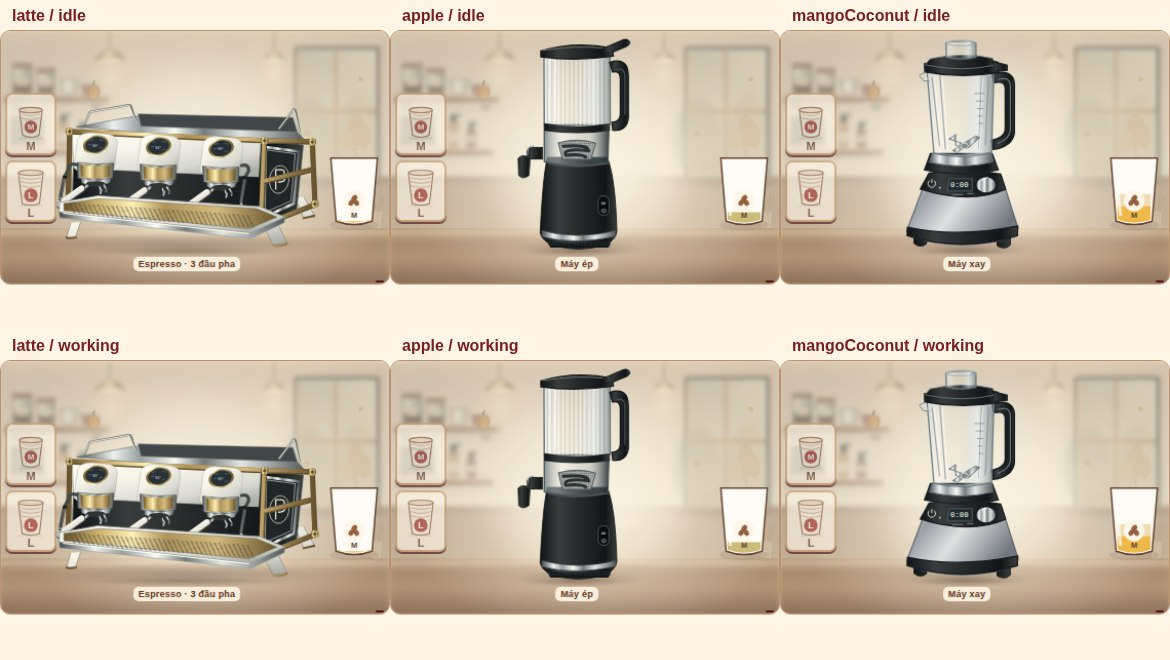
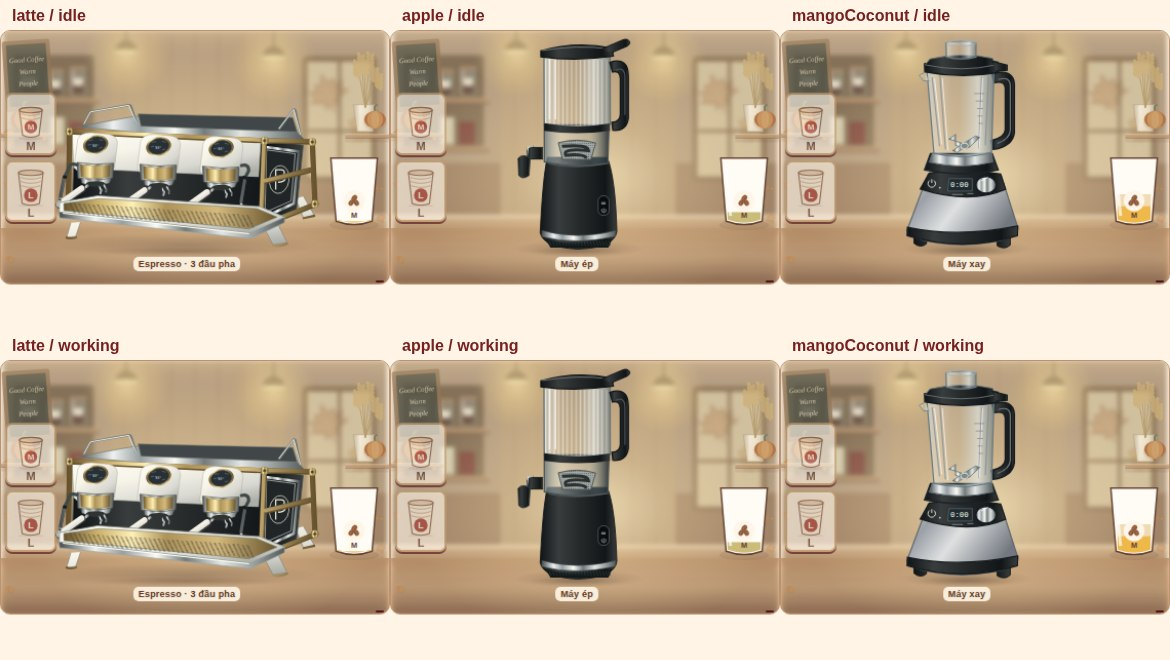
Attach inspected four-season screenshots and branch launch validation results

diff --git a/docs/season-theme-v2.md b/docs/season-theme-v2.md
@@ -11,6 +11,7 @@ Implemented on `feat/cozy-season-themes`; production is not changed.
 - Complete paid training during actual worked shifts: delivery needs three; other courses two. Existing save ownership is preserved. No automatic purchase or free employee.
 - At the fifth shift, baseline fixture (4★, 4.5 skill, menu at normal prices) forecasts ~284 orders, before seasonal/contest bonuses. With 350 team capacity, daily market variation gives roughly 252–315. Good service may increase demand; poor service, missing staff, no advertising or order limits reduce it.
 - Branch online launch removes the additional penalty for unrelated bakery/decor development. The branch still retains the 90% sales scaling, own demand and capacity.
+- Branch online UI now offers its own 6,500k station, instead of displaying the main-shop tablet requirements. Both advertising entry points debit the same branch wallet and set its own campaign flag once per day.
 - Main-shop economics and branch opening costs/requirements are unchanged. No save schema bump; the existing upgrade map stores the new owned flag.
 
 ## Shared renderer, distinct art
@@ -21,7 +22,7 @@ Implemented on `feat/cozy-season-themes`; production is not changed.
 - Winter: evening snowy window behind the machine, small pine arrangement, two gifts, five header snowflakes and five warm lights, ice-white note, navy header/CTA/nav.
 - All new decorative assets are original SVG. Existing source photos and equipment-vector atlas are preserved.
 - Background and lighting are subdued; machine and cup remain sharp, opaque and above the decor. Only tiny edge/background particles animate via CSS; reduced-motion disables them.
-- Header ornaments use a masked text-safe area. Notes adapt to the existing short order card (46×32 maximum); they sit below the price and hide automatically when actual option/customer text needs that space. This deliberately prioritizes readable live orders over the spec's conflicting top-right note position.
+- Header ornaments use a text-safe mask derived from actual HUD bounding boxes and updated by ResizeObserver; overlapping protected areas are unioned. Notes adapt to the existing short order card (46×32 maximum); they sit below the price and hide automatically when actual option/customer text needs that space. This deliberately prioritizes readable live orders over the spec's conflicting top-right note position.
 - No changes to eight service rows, navigation height, controls, machine/cup sizes, recipes, stock use, timers or save writes from theme selection.
 - `?season-theme=spring|summer|autumn|winter|off` is a visual review override only.
 
@@ -33,5 +34,22 @@ Implemented on `feat/cozy-season-themes`; production is not changed.
 - `docs/screenshots/`: actual running-game screenshots, updated after review.
 
 ## Validation
-Local deterministic JavaScript harness: 1,088 checks passed, including nine new branch launch cases.
-Browser results and visual review: pending CI for this revision. No production deployment.
+Local deterministic JavaScript harness: 1,089 checks passed, including ten new branch launch cases.
+Browser results: Chromium and WebKit pass at 375×812, 390×844 and 430×932. Tests compare fourteen gameplay rectangles with the unchanged main baseline; confirm 44px main targets, touch hit-testing, zero horizontal overflow, zero JavaScript/console/asset errors, sharp machine/cup, retained background/equipment DOM during machine swaps, safe note suppression and theme selection without state/save changes.
+Actual UI clicks tested branch online-station purchase and own-wallet advertising, in both engines.
+Inspected actual 390px four-season screenshots, 375/430 responsive samples, and espresso/juicer/blender in idle and working states.
+No physical iPhone test or long-running FPS/memory profiling. Static HTML project has no configured build, lint or typecheck script; JavaScript parsing, deterministic logic checks and browser tests are used instead.
+No production deployment.
+
+## Screenshots and reproducible tests
+- [Four seasons at 390px](screenshots/four-seasons-390.jpg)
+- [Responsive views](screenshots/season-responsive.jpg)
+- [Equipment idle/working](screenshots/equipment-stages.jpg)
+- [Chromium results](screenshots/chromium-results.json)
+- [WebKit results](screenshots/webkit-results.json)
+- [Branch launch checkpoints](branch-launch-checkpoints.json)
+
+The checkpoint file is a controlled forecast test using real purchase/training functions. It supplies worked/paid-shift attendance to advance training; cash values exclude simulated stock purchases and operating expenses. It is not a full profit simulation or a sales guarantee.
+
+
+Final tested code: `a02f130d6bac7d9f5caef233f5002f3221e98e1d`. [Chromium/WebKit CI run](https://github.com/tungtran2512/beanaround/actions/runs/37349952222).
